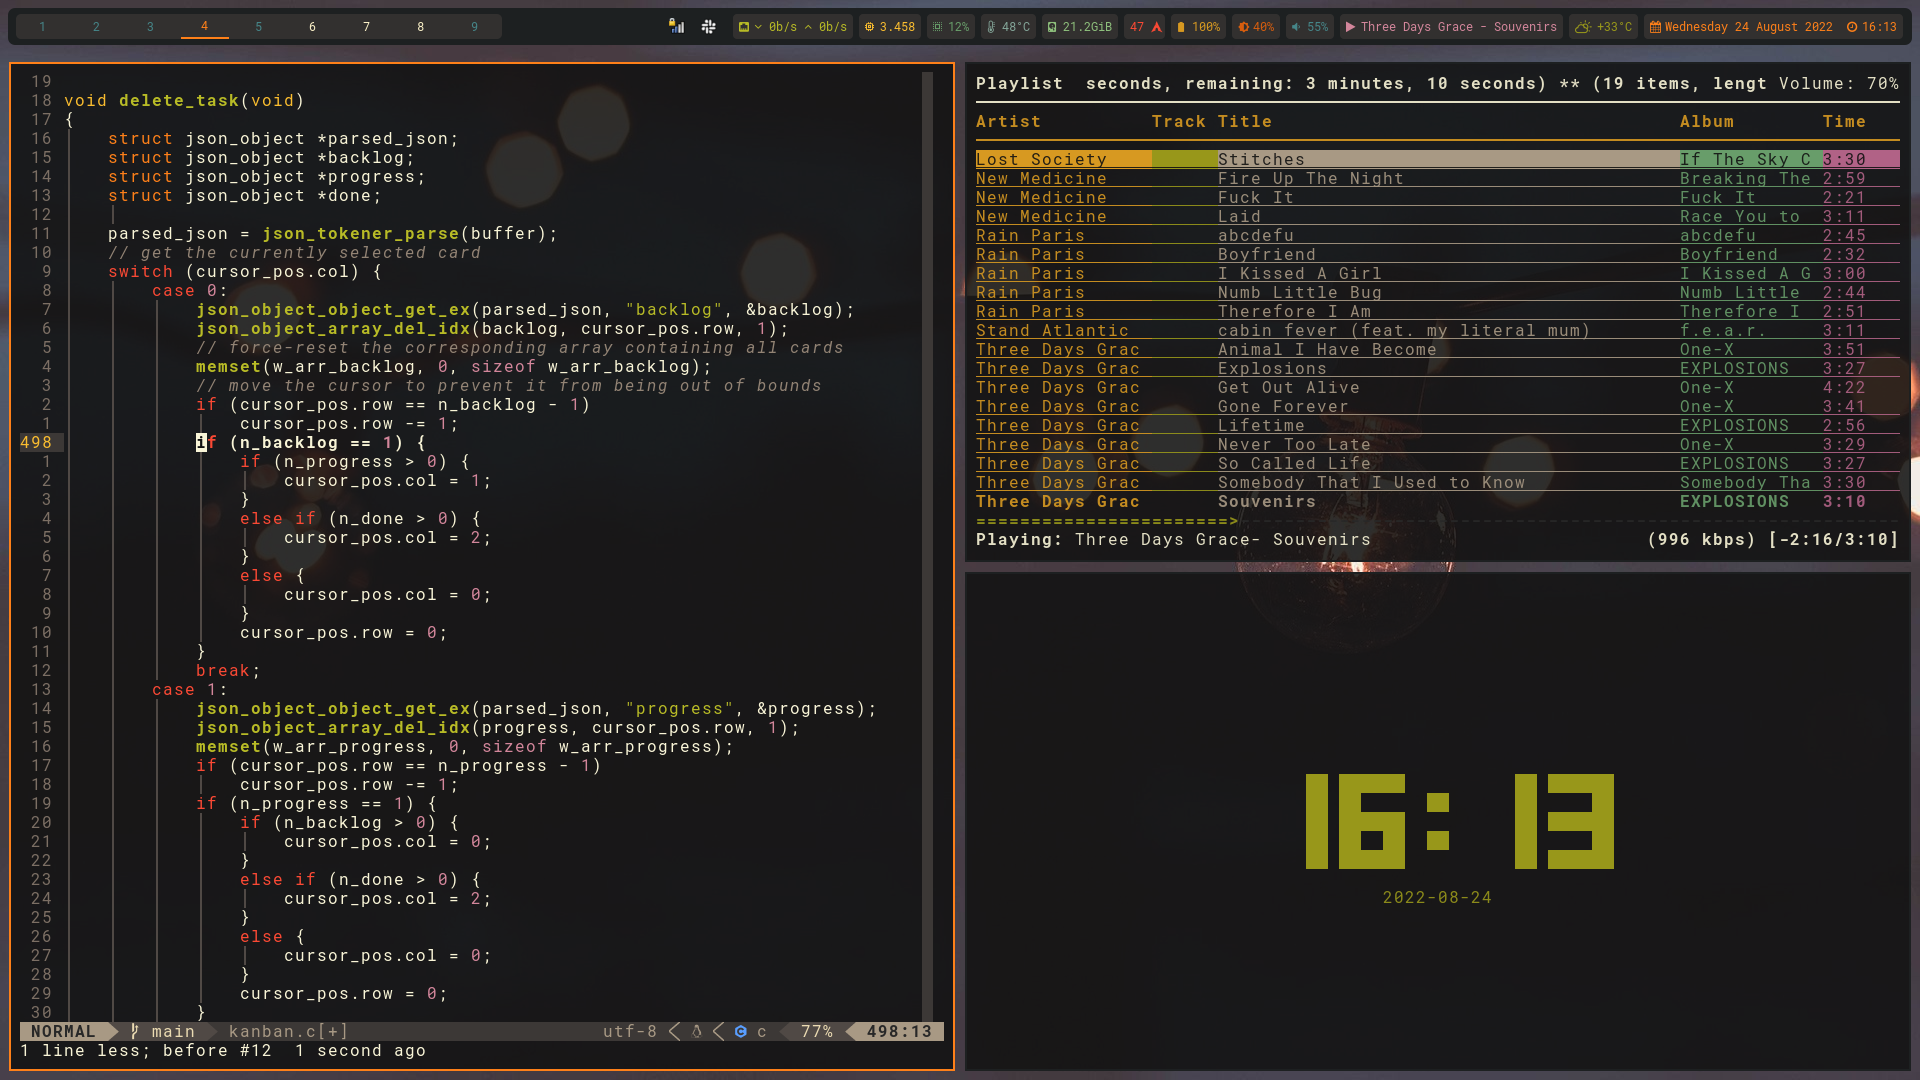
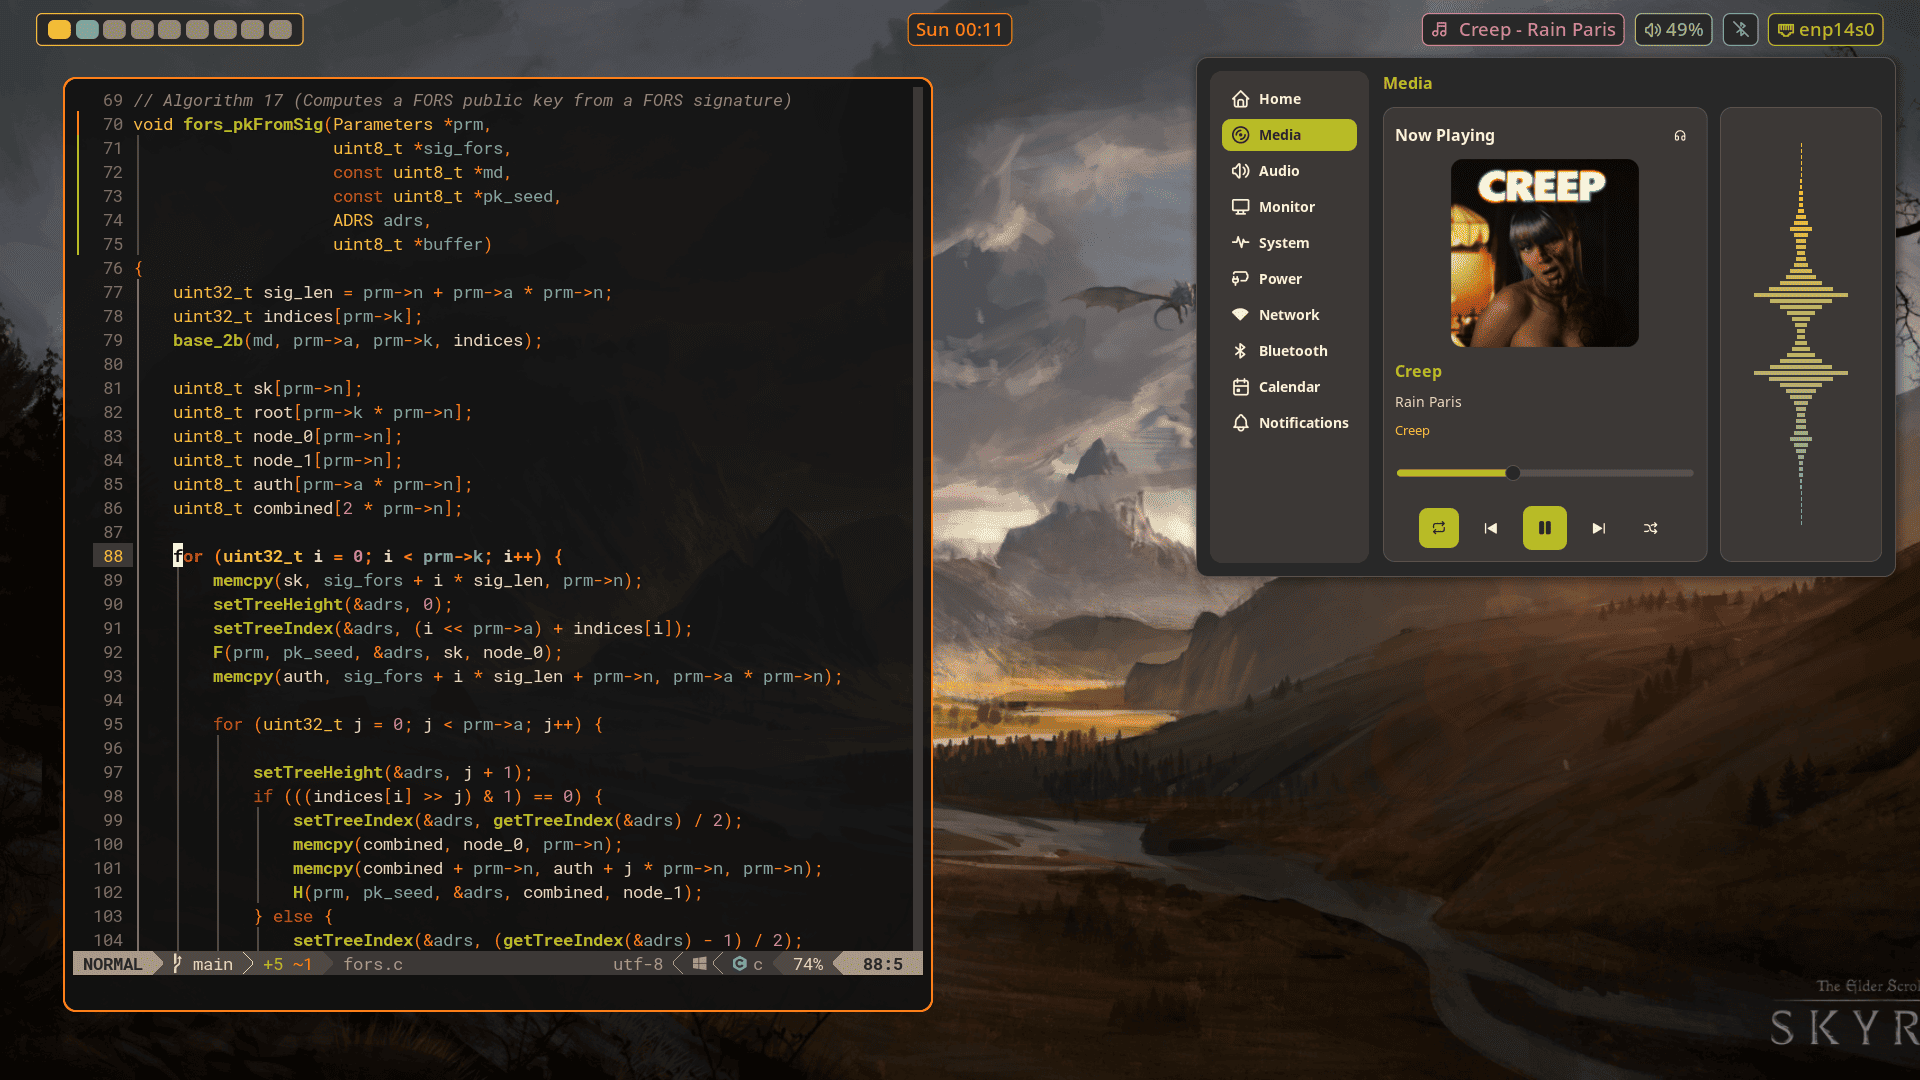
Update README and screenshot

diff --git a/README.md b/README.md
@@ -1,7 +1,7 @@
 # Welcome ~/
 
-This repository contains my personal Linux dotfiles.<br>
-They are often (speak: all the time) a work in progress and may or may not work for you.<br>
+This repository contains my personal Linux dotfiles. \
+They are often (speak: all the time) a work in progress and may or may not work for you.
 
 ![screenshot.png](screenshot.png)
 
@@ -16,38 +16,32 @@ pacman -S --needed - < packages.txt
 yay -S --needed - < packages_AUR.txt
 ```
 
-To generate the list of packages, run `pacman -Qqen` to get the list main repo packages and `pacman -Qqem` for AUR packages.
+To generate the list of packages, run `pacman -Qqn` to get the list main repo packages and `pacman -Qqm` for AUR packages.
 
 
 ## Installation
-
-Clone the repo into your home directory.
-
-```sh
-git clone https://github.com/sihensel/dotfiles.git
-```
-
-There is no wallpaper included, the window manager looks for `~/wallpapers/wall.jpg`.<br>
-This can be configured in [river/init](river/init).
-
-### Install Script
 
 The script `install.sh` places symlinks to the local repo, so all files can stay in one place.<br>
 You might want to ignore that, this is just for my personal setup.
 
 ```sh
 ./install.sh   # or
-./install.sh -p /path/to/dotfiles/
+./install.sh -p /absolute/path/to/dotfiles/
 ```
 
-**Note**: I use the `xdg-user-dirs` package to get rid of most of the standard XDG directories. See the [user-dirs.dirs](./user-dirs.dirs) file for details.
+There is no wallpaper included, you can set one via Noctalia.
+
+> [!NOTE]
+> The `xdg-user-dirs` package is used to get rid of most of the standard XDG directories.
+> See the [user-dirs.dirs](./user-dirs.dirs) file for details.
 
 
 ## Configure Neovim Plugins
 
-The keybinds are listed in [init.lua](nvim/init.lua).<br>
-Plugins are managed via [Lazy.nvim](https://github.com/folke/lazy.nvim). The Plugin manager installs itself and all plugins automatically.<br>
-LSP clients are also installed automatically via [Mason](https://github.com/williamboman/mason.nvim).
+The keybinds are listed in [init.lua](nvim/init.lua).
+Plugins are managed via [Lazy.nvim](https://github.com/folke/lazy.nvim).
+The Plugin manager installs itself and all plugins automatically.
+LSP clients are installed automatically via [Mason](https://github.com/williamboman/mason.nvim).
 
 The following packages are exteneral dependencies, install them with your package manager:
 ```
@@ -57,7 +51,7 @@ fd ripgrep fzf tree-sitter tree-sitter-cli python-pynvim go unzip
 
 ## Librewolf
 
-Place the `user.js` file in `~/.config/librewolf/librewolf/*.default-release/` and restart the browser (`install.sh` takes care of that).
+Place the `user.js` file in `~/.config/librewolf/librewolf/*.default-release/` (`install.sh` takes care of that), and restart the browser.
 
 Add the following line to the `My Filters` tab in uBlock Origin to disable the `Sign in with Google` popup.
 ```
